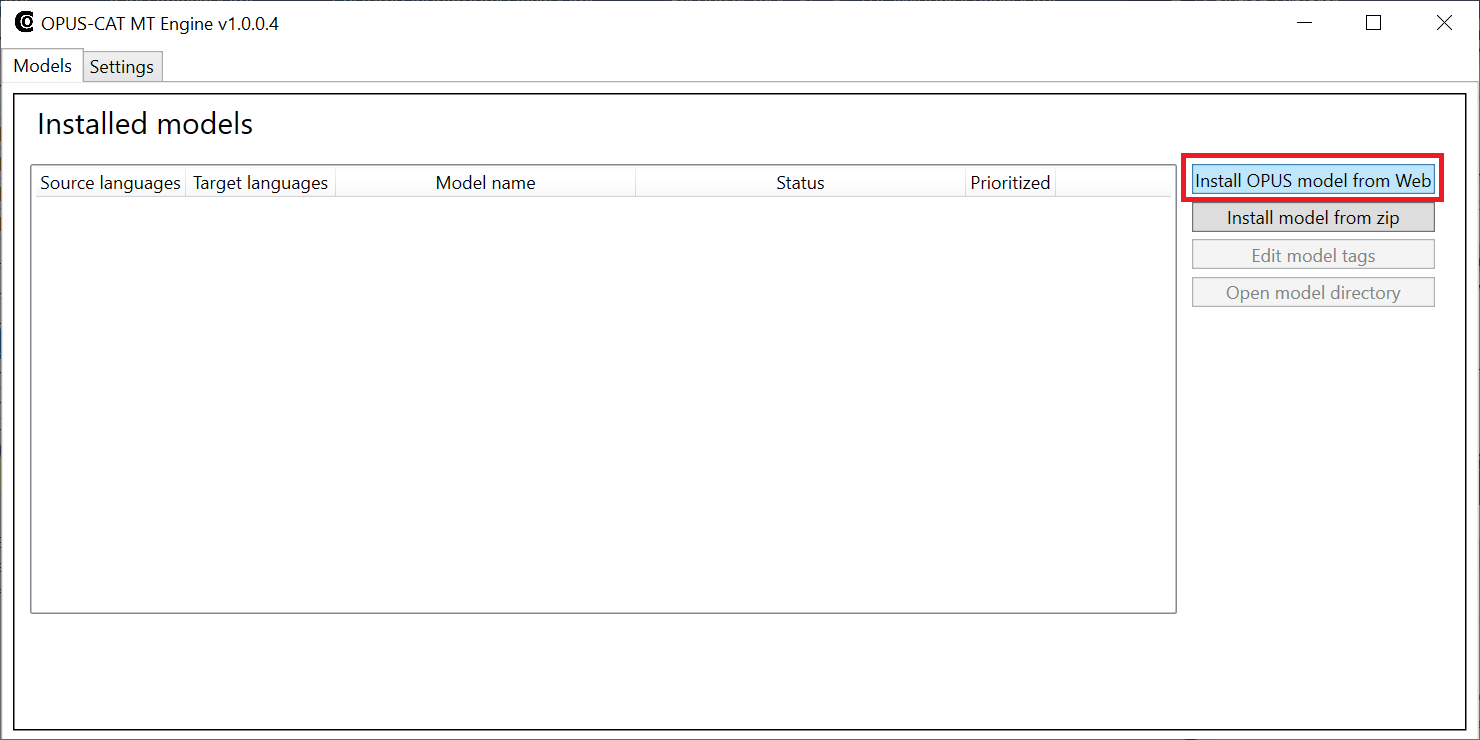
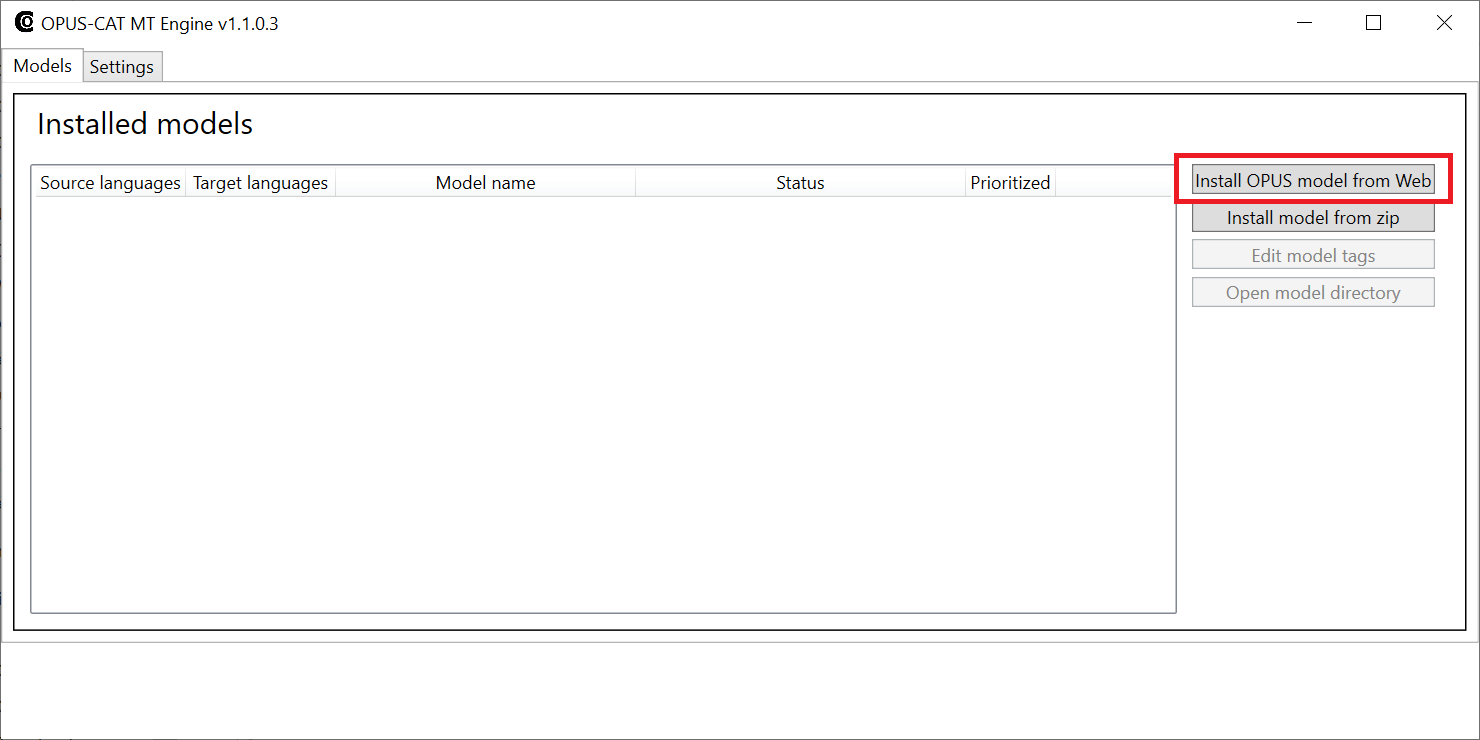
updated model installation instructions for new release, removed netsh info from Wordfast help, since it's no longer needed

diff --git a/wordfast.md b/wordfast.md
@@ -6,56 +6,25 @@ permalink: /wordfast
 ## Using OPUS-CAT in Wordfast Classic and Wordfast Pro
 
 OPUS-CAT can be used in different Wordfast CAT tools by using the **Custom MT** functionality offered by these products.
-**NOTE:** Using OPUS-CAT with Wordfast requires some extra configuration compared to Trados and memoQ plugins. This is because the Wordfast integration requires access tothe HTTP API of OPUS-CAT MT Engine, which has to be separately configured. 
+**NOTE:** Make sure you use latest version of OPUS-CAT MT Engine with Wordfast. Earlier versions of OPUS-CAT MT Engine required extra configuration to enable it to be used with Wordfast.
 
 ### Installing the OPUS-CAT MT Engine
 
-Download the [OPUS-CAT MT Engine](https://github.com/Helsinki-NLP/OPUS-CAT/releases/download/engine_v1.0.0.5/OpusCatMTEngine_v1.0.0.5.zip) and install it to your computer by extracting it to a folder on your computer. **IMPORTANT**: OPUS-CAT MT Engine generates the machine translation, and all OPUS-CAT integrations require that the OPUS-CAT MT Engine is installed on the same computer and running when OPUS-CAT machine translation is used.
-
-### Installing machine translation models
-
-1. Start the OPUS-CAT MT Engine application by clicking *OpusCatMTEngine.exe* in the extraction folder (note that the file extension .exe may be hidden in Windows Explorer, in that case the file is shown as OpusCatMTEngine).
-2. Install models from the OPUS model repository for the language pairs that you require.
+1. Download the [OPUS-CAT MT Engine](https://github.com/Helsinki-NLP/OPUS-CAT/releases/download/engine_v1.1.0.3/OpusCatMtEngine_v1.1.0.3.zip) and install it to your computer by extracting it in a folder on your computer. **IMPORTANT**: OPUS-CAT MT Engine generates the machine translation, and all OPUS-CAT plugins require that the OPUS-CAT MT Engine is installed on the same computer and running when the plugins are used. 
+2. Start the OPUS-CAT MT Engine application by clicking OpusCatMTEngine.exe in the extraction folder (note that the file extension .exe may be hidden in Windows Explorer, in that case the file is shown as OpusCatMTEngine).
+3. Install models from the OPUS model repository for the language pairs that you require.
    - Click **Install OPUS model from Web**.
-	<img src="./images/InstallOnlineModel.PNG?raw=true" alt="drawing" width="75%"/>
-   - Enter source and target language codes in the filtering boxes on the top row, select a model (usually the one with latest date suffix) and then click **Install locally**.
-       <img src="./images/ModelList.PNG?raw=true" alt="drawing" width="75%"/>
-3. After the model has been downloaded and installed, test that it works.
+       <img src="./images/InstallOnlineModel.PNG?raw=true" alt="drawing" width="100%"/>
+   - Next, OPUS-CAT MT Engine fetches a list of models available online. The text _Fetching list of online models, please wait..._ is displayed in the top part of the window.
+       <img src="./images/FetchingModels.png?raw=true" alt="drawing" width="100%"/>
+   - When the text in the top part of the window changes to _Downloadable online models_, enter source and target languages (or parts of them) in the filtering boxes on the top row. From the filtered models, select a model to install (it's usually best to select the one with latest date suffix) and then click **Install locally**.
+       <img src="./images/ModelList.PNG?raw=true" alt="drawing" width="100%"/>
+4. After the model has been downloaded and installed, test that it works.
     - Select model and click **Translate with model**.
-       <img src="./images/TestModel.PNG?raw=true" alt="drawing" width="75%"/>
+       <img src="./images/TestModel.PNG?raw=true" alt="drawing" width="100%"/>
     - Enter translation in the **Source text** area, click **Translate** and wait for a translation to appear in the **Translation** area (producing the first translation may take some time, as the model needs to be initialized, subsequent translations are faster).
-       <img src="./images/TestTranslation.PNG?raw=true" alt="drawing" width="75%"/>
+       <img src="./images/TestTranslation.PNG?raw=true" alt="drawing" width="100%"/>
  
-### Configuring the HTTP API
-
-Wordfast **Custom MT** fetches translations by using HTTP requests. OPUS-CAT MT Engine includes an HTTP API for this purpose, but it has to be granted a permission to receive requests before OPUS-CAT can be used in Wordfast. Granting the permission to receive requests requires system administrator permissions. If you do not have system administrator permissions on your computer, contact your IT support. 
-
-To enable the HTTP API, first open the Windows command prompt as an administrator:
-
-- Press Windows key, type *cmd*, right-click **Command prompt** app, and select **Run as administrator**.
-
-Then use the **netsh** utility with the command prompt by typing the following command: 
-
-```
-netsh http add urlacl url=http://+:8500/ user=[USERNAME]
-```
-
-Substitute your username for *[USERNAME]* (you can find out your usename by typing *whoami* into the command prompt). 8500 is the port number which the HTTP API uses by default. This command specifies that port 8500 can be used by the named user, which makes it possible to use the HTTP API of OPUS-CAT MT Engine. 
-
-To see whether the command was performed successfully, restart OPUS-CAT MT Engine, open your browser, and paste the following URL to the address bar:
-
-```
-http://localhost:8500/MTRestService/ListSupportedLanguagePairs?tokenCode=0 
-```
-
-You should see a list of language pairs for which models have been installed in OPUS-CAT MT Engine.
-
-The *netsh* command only needs to be executed once, the permission to use the port remain unless it is deleted. If you want to delete the permission, type the following command into the command prompt:
-
-```
-*netsh http delete urlacl url=http://+:8500/*
-```
-
 ### Using OPUS-CAT in Wordfast Pro
 
 1. Make sure that OPUS-CAT MT Engine is running.

diff --git a/install.md b/install.md
@@ -5,21 +5,23 @@ permalink: /install
 ---
 ## Quickstart for translators
 
-1. Download the [OPUS-CAT MT Engine](https://github.com/Helsinki-NLP/OPUS-CAT/releases/download/engine_v1.0.0.4/OpusCatMTEngine_v1.0.0.4.zip) and install it to your computer by extracting it in a folder on your computer. **IMPORTANT**: OPUS-CAT MT Engine generates the machine translation, and all OPUS-CAT plugins require that the OPUS-CAT MT Engine is installed on the same computer and running when the plugins are used. 
+1. Download the [OPUS-CAT MT Engine](https://github.com/Helsinki-NLP/OPUS-CAT/releases/download/engine_v1.1.0.3/OpusCatMtEngine_v1.1.0.3.zip) and install it to your computer by extracting it in a folder on your computer. **IMPORTANT**: OPUS-CAT MT Engine generates the machine translation, and all OPUS-CAT plugins require that the OPUS-CAT MT Engine is installed on the same computer and running when the plugins are used. 
 2. Download the plugin for your translation software and install it:
   - Trados Studio 2017, 2019 and 2021: Download the plugin from the [SDL AppStore](https://appstore.sdl.com/language/app/opus-cat-nmt/1160/) and double-click .sdlplugin file to install.
   - [memoQ 9.2 or older](https://github.com/Helsinki-NLP/OPUS-CAT/raw/develop/build/2020-05-26/FiskmoMTPlugin.dll), [memoQ 9.3 to 9.6](https://github.com/Helsinki-NLP/OPUS-CAT/raw/develop/build/2020-10-07/FiskmoMTPlugin.dll), [memoQ 9.7 or newer](https://github.com/Helsinki-NLP/OPUS-CAT/raw/develop/build/2021-05-27/FiskmoMTPlugin.dll): Copy the plugin file to the Addins subfolder in the memoQ installation folder. **IMPORTANT**: Make sure to unblock the dll file before copying it (right-click file, choose **Properties**, check the **Unblock** box in the bottom right of the **Properties** window).
   - Wordfast: There is currently no plugin for Wordfast, but Fiskmo MT can be used in Wordfast as a [custom MT provider](./wordfast).
-  - OmegaT: There is an OmegaT plugin available for the development version of the MT engine. The plugin will be released shortly, but if you want to use the OmegaT plugin before that, contact us.
+  - OmegaT: Copy the plugin file [omegat-plugin-opus-mt-1.0.0.jar](https://github.com/Helsinki-NLP/OPUS-CAT/raw/master/OmegaTPlugin/omegat-plugin-opus-mt-1.0.0.jar) to the *plugins* subfolder of the OmegaT installation folder (usually _C:\Program Files (x86)\OmegaT_). 
 3. Start the OPUS-CAT MT Engine application by clicking OpusCatMTEngine.exe in the extraction folder (note that the file extension .exe may be hidden in Windows Explorer, in that case the file is shown as OpusCatMTEngine).
 4. Install models from the OPUS model repository for the language pairs that you require.
    - Click **Install OPUS model from Web**.
-       <img src="./images/InstallOnlineModel.PNG?raw=true" alt="drawing" width="75%"/>
-   - Enter source and target language codes in the filtering boxes on the top row, select a model (usually the one with latest date suffix) and then click **Install locally**.
-       <img src="./images/ModelList.PNG?raw=true" alt="drawing" width="75%"/>
+       <img src="./images/InstallOnlineModel.PNG?raw=true" alt="drawing" width="100%"/>
+   - Next, OPUS-CAT MT Engine fetches a list of models available online. The text _Fetching list of online models, please wait..._ is displayed in the top part of the window.
+       <img src="./images/FetchingModels.png?raw=true" alt="drawing" width="100%"/>
+   - When the text in the top part of the window changes to _Downloadable online models_, enter source and target languages (or parts of them) in the filtering boxes on the top row. From the filtered models, select a model to install (it's usually best to select the one with latest date suffix) and then click **Install locally**.
+       <img src="./images/ModelList.PNG?raw=true" alt="drawing" width="100%"/>
 5. After the model has been downloaded and installed, test that it works.
     - Select model and click **Translate with model**.
-       <img src="./images/TestModel.PNG?raw=true" alt="drawing" width="75%"/>
+       <img src="./images/TestModel.PNG?raw=true" alt="drawing" width="100%"/>
     - Enter translation in the **Source text** area, click **Translate** and wait for a translation to appear in the **Translation** area (producing the first translation may take some time, as the model needs to be initialized, subsequent translations are faster).
-       <img src="./images/TestTranslation.PNG?raw=true" alt="drawing" width="75%"/>
+       <img src="./images/TestTranslation.PNG?raw=true" alt="drawing" width="100%"/>
 6. Start your CAT tool, and add the OPUS-CAT plugin to a translation project.

diff --git a/tradosplugin.md b/tradosplugin.md
@@ -5,19 +5,21 @@ permalink: /tradosplugin
 ---
 ## Quickstart for translators
 
-1. Download the [OPUS-CAT MT Engine](https://github.com/Helsinki-NLP/OPUS-CAT/releases/download/engine_v1.0.0.4/OpusCatMTEngine_v1.0.0.4.zip) and install it to your computer by extracting it to a folder on your computer. **IMPORTANT**: OPUS-CAT MT Engine generates the machine translation, and all OPUS-CAT plugins require that the OPUS-CAT MT Engine is installed on the same computer and running when the plugins are used.
-2. Download the plugin for your version of Trados from the [SDL AppStore](https://appstore.sdl.com/language/app/opus-cat-nmt/1160/) and install it.
-3. Start the OPUS-CAT MT Engine application by clicking *OpusCatMTEngine.exe* in the extraction folder (note that the file extension .exe may be hidden in Windows Explorer, in that case the file is shown as OpusCatMTEngine).
+1. Download the [OPUS-CAT MT Engine](https://github.com/Helsinki-NLP/OPUS-CAT/releases/download/engine_v1.1.0.3/OpusCatMtEngine_v1.1.0.3.zip) and install it to your computer by extracting it in a folder on your computer. **IMPORTANT**: OPUS-CAT MT Engine generates the machine translation, and all OPUS-CAT plugins require that the OPUS-CAT MT Engine is installed on the same computer and running when the plugins are used. 
+2. Download the plugin for your version of Trados Studio from the [SDL AppStore](https://appstore.sdl.com/language/app/opus-cat-nmt/1160/) and double-click .sdlplugin file to install.
+3. Start the OPUS-CAT MT Engine application by clicking OpusCatMTEngine.exe in the extraction folder (note that the file extension .exe may be hidden in Windows Explorer, in that case the file is shown as OpusCatMTEngine).
 4. Install models from the OPUS model repository for the language pairs that you require.
    - Click **Install OPUS model from Web**.
-	<img src="./images/InstallOnlineModel.PNG?raw=true" alt="drawing" width="75%"/>
-   - Enter source and target language codes in the filtering boxes on the top row, select a model (usually the one with latest date suffix) and then click **Install locally**.
-       <img src="./images/ModelList.PNG?raw=true" alt="drawing" width="75%"/>
+       <img src="./images/InstallOnlineModel.PNG?raw=true" alt="drawing" width="100%"/>
+   - Next, OPUS-CAT MT Engine fetches a list of models available online. The text _Fetching list of online models, please wait..._ is displayed in the top part of the window.
+       <img src="./images/FetchingModels.png?raw=true" alt="drawing" width="100%"/>
+   - When the text in the top part of the window changes to _Downloadable online models_, enter source and target languages (or parts of them) in the filtering boxes on the top row. From the filtered models, select a model to install (it's usually best to select the one with latest date suffix) and then click **Install locally**.
+       <img src="./images/ModelList.PNG?raw=true" alt="drawing" width="100%"/>
 5. After the model has been downloaded and installed, test that it works.
     - Select model and click **Translate with model**.
-       <img src="./images/TestModel.PNG?raw=true" alt="drawing" width="75%"/>
+       <img src="./images/TestModel.PNG?raw=true" alt="drawing" width="100%"/>
     - Enter translation in the **Source text** area, click **Translate** and wait for a translation to appear in the **Translation** area (producing the first translation may take some time, as the model needs to be initialized, subsequent translations are faster).
-       <img src="./images/TestTranslation.PNG?raw=true" alt="drawing" width="75%"/>
+       <img src="./images/TestTranslation.PNG?raw=true" alt="drawing" width="100%"/>
 6. Start your version of Trados Studio, and add the OPUS-CAT plugin to a translation project.
     - Select the project and click the **Project Settings** button in  the **Home** tab of the Studio ribbon.
       <img src="./images/ProjectSettings.png?raw=true" alt="drawing" width="75%"/>
